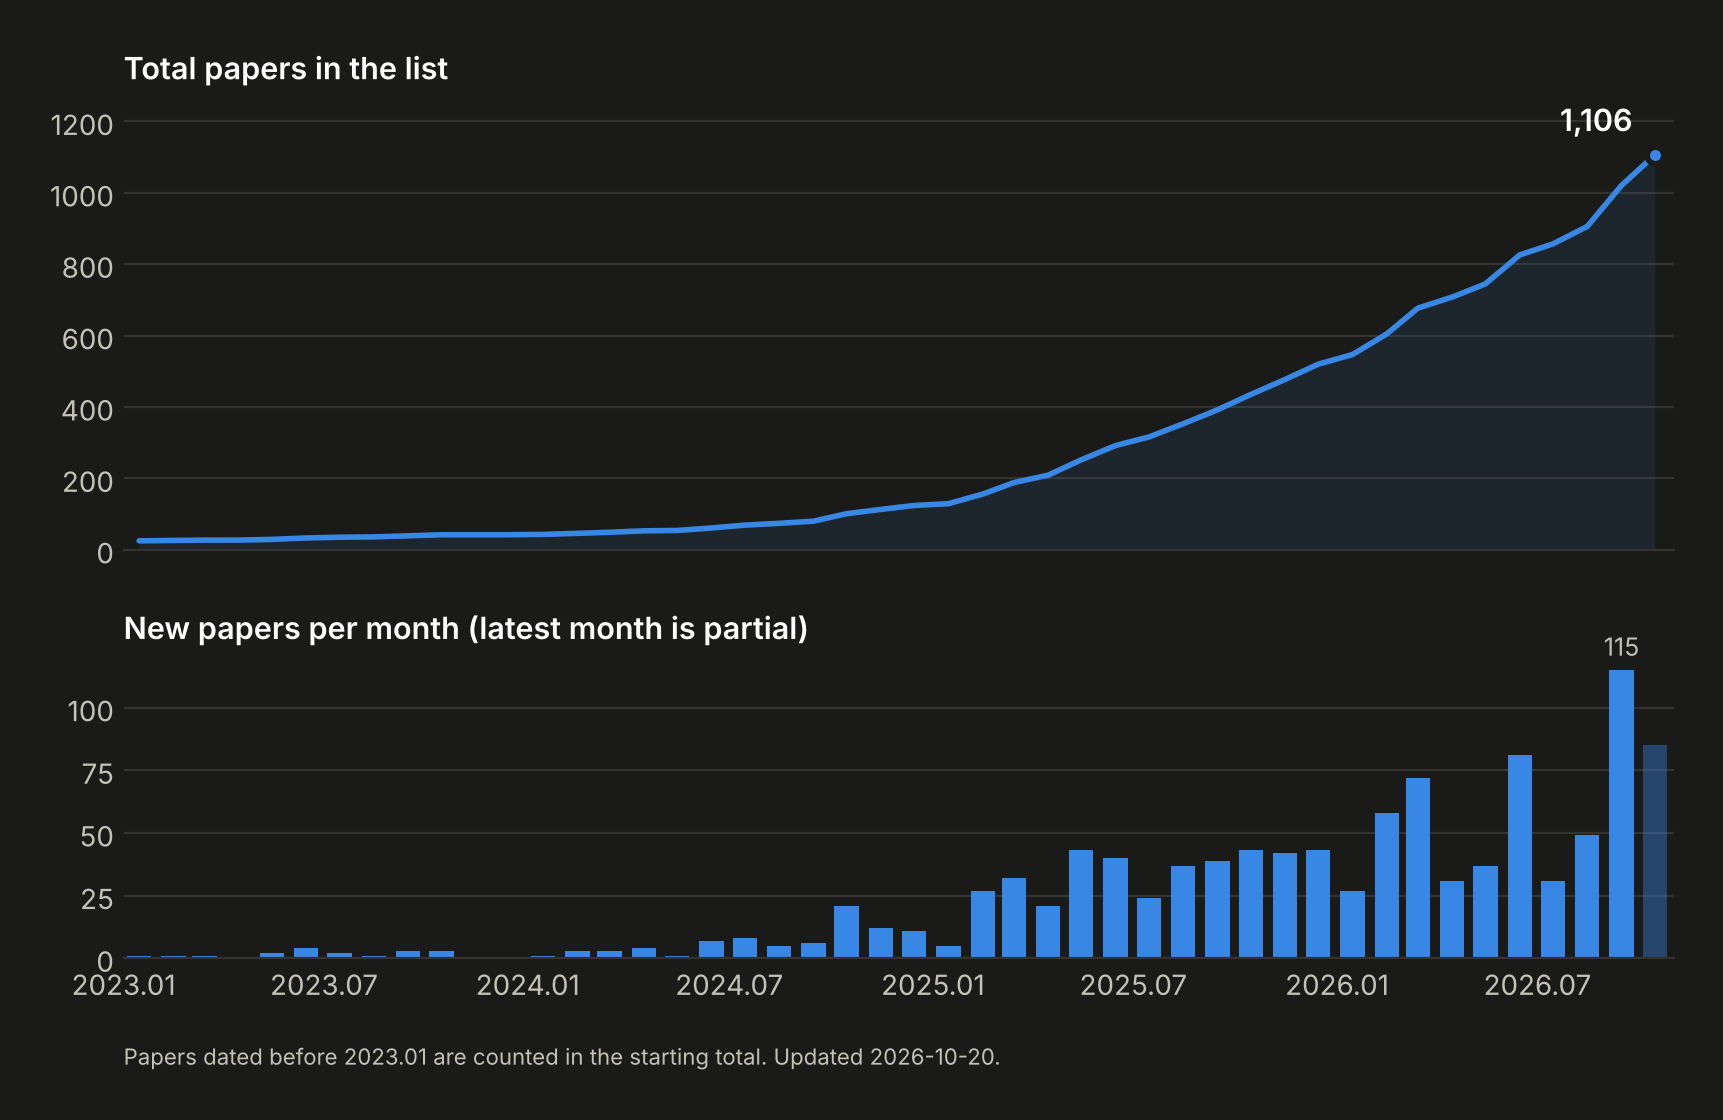
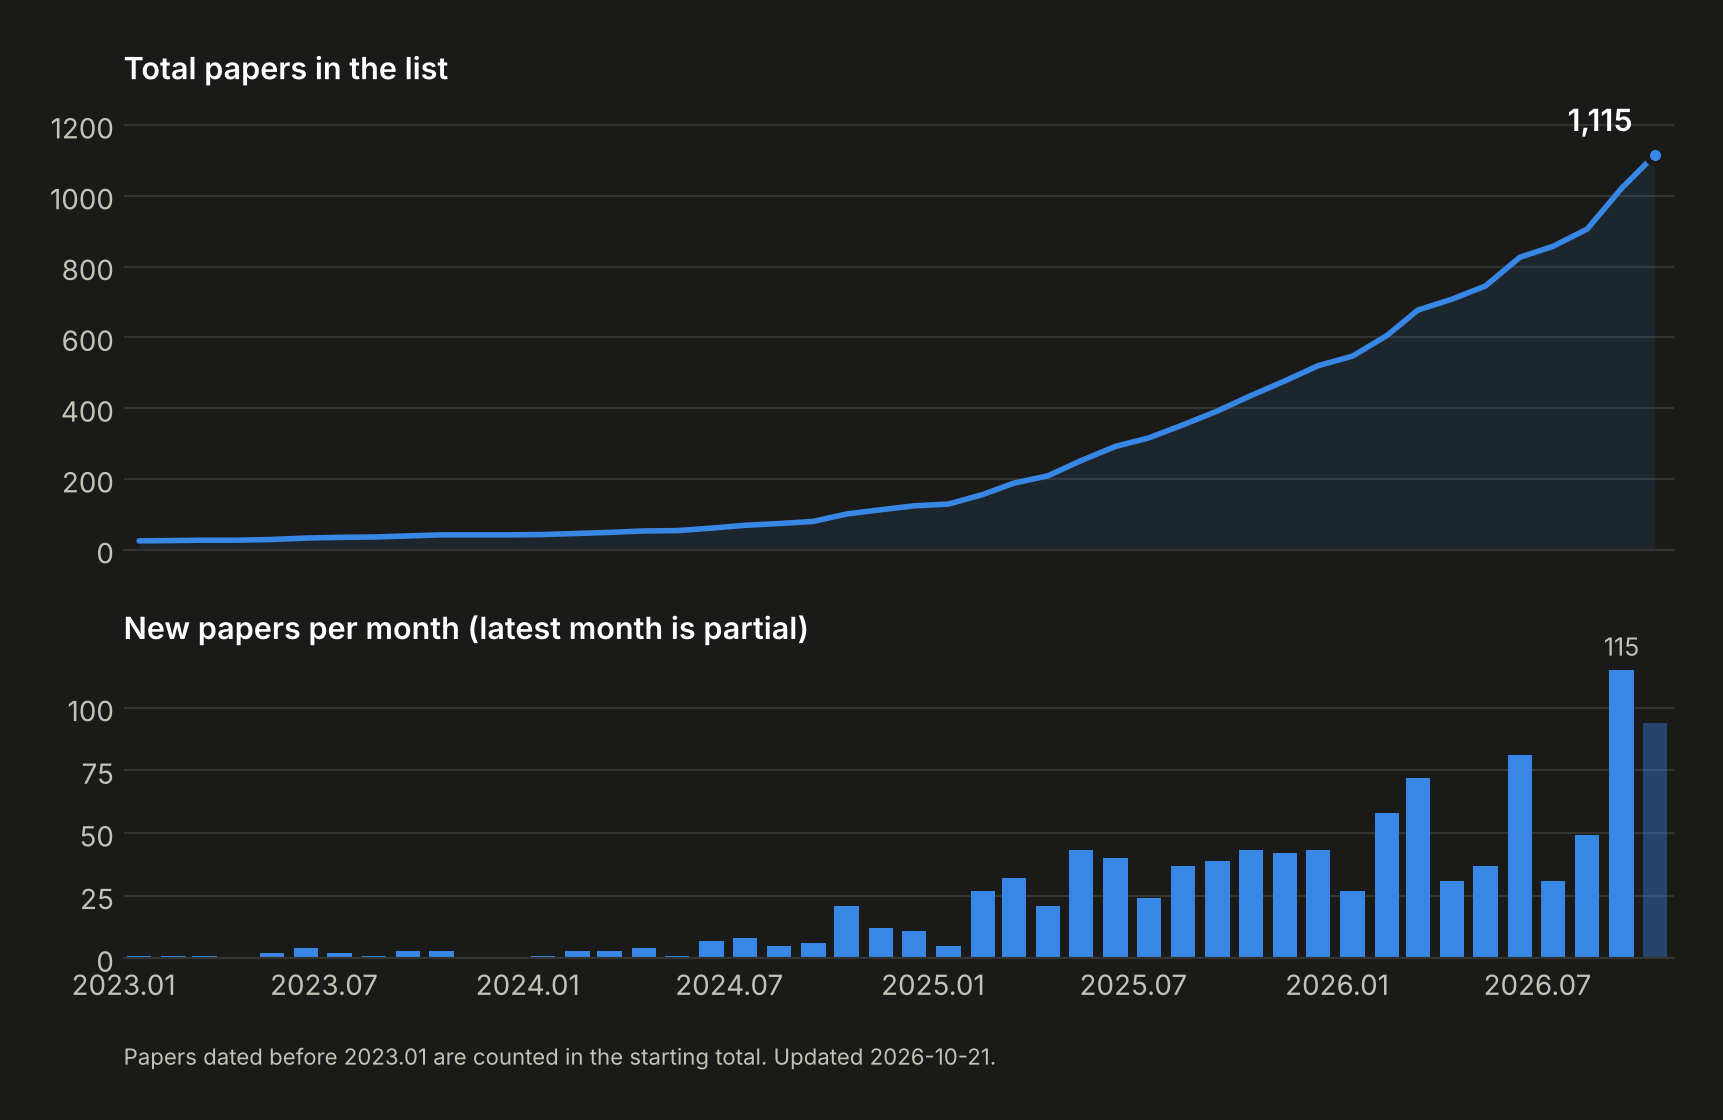
Add 9 papers from arXiv (2026-10-21)
Claude-Session: https://claude.ai/code/session_01MvffLZRp8hyw7Y3uG6SnJp

diff --git a/README.md b/README.md
@@ -28,6 +28,11 @@ Feel free to pull a request for new papers/codes about humanoid robot learning.
 ---
 
 ## Loco-Manipulation and Whole-Body-Control
+- [CoRL 2026](https://arxiv.org/abs/2610.28523), VLM-Guided Contact Retargeting and Generative Partner Modeling for Humanoid-Human Interaction, [website](https://yutoshibata07.github.io/REACT/)
+- [CoRL 2026](https://arxiv.org/abs/2610.28480), SuperMimic: Scaling Humanoid Whole-Body Control with One Differentiable World Model, [website](https://supermimic.github.io)
+- [arXiv 2026.10](https://arxiv.org/abs/2610.28470), Fast Motion Retargeting Pipeline for Scalable Humanoid Robot Learning
+- [arXiv 2026.10](https://arxiv.org/abs/2610.26584), HAF-VLA: Hierarchical Action Flow Framework for Humanoid Vision-Language-Action Control
+- [arXiv 2026.10](https://arxiv.org/abs/2610.26043), OmniInteract: Towards Unified Whole-Body Interaction Control for Dual Humanoids, [website](https://calvinyhli.github.io/omniinteract.github.io/)
 - [arXiv 2026.10](https://arxiv.org/abs/2610.25711), SWAP: Test-Time Steerable Humanoid Whole-Body Collision Avoidance, [website](https://iscoyizj.github.io/SWAP-steerable-humanoid-oa-website/)
 - [arXiv 2026.10](https://arxiv.org/abs/2610.25628), Humanoid SRL: Augmenting Humanoids with Supernumerary Limbs for Coordinated Loco-Manipulation
 - [arXiv 2026.10](https://arxiv.org/abs/2610.24847), DiPLO: Self-distilled Diffusion Planning for Loco-manipulation
@@ -484,6 +489,9 @@ Feel free to pull a request for new papers/codes about humanoid robot learning.
 - [2024.08](https://la.disneyresearch.com/publication/vmp-versatile-motion-priors-for-robustly-tracking-motion-on-physical-characters/), VMP: Versatile Motion Priors for Robustly Tracking Motion on Physical Characters, [website](https://la.disneyresearch.com/publication/vmp-versatile-motion-priors-for-robustly-tracking-motion-on-physical-characters/)
 - [2024.07](https://la.disneyresearch.com/publication/robot-motion-diffusion-model-motion-generation-for-robotic-characters/), Robot Motion Diffusion Model: Motion Generation for Robotic Characters,
 ## Manipulation
+- [arXiv 2026.10](https://arxiv.org/abs/2610.27242), EmbodyHOI: Embodiment-Aware Generation of Hand-Object Interactions for Humanoid Dexterous Manipulation
+- [arXiv 2026.10](https://arxiv.org/abs/2610.26170), Data-Efficient Learning from Demonstration for Humanoid Robots via Feature-Level Perception and Prompt-Based Object Detection
+- [arXiv 2026.10](https://arxiv.org/abs/2610.26169), Compositional Humanoid Manipulation through Isomorphic Teleoperation and Independent Skill Routing
 - [arXiv 2026.10](https://arxiv.org/abs/2610.22342), Spark-0: Scaling Spatially Aligned Tactile Pretraining for Robot Dexterous Manipulation, [website](https://xsparkai.com/Spark-0)
 - [arXiv 2026.10](https://arxiv.org/abs/2610.09369), Immiscible Diffusion Policy: Preserving Multimodal Robot Actions through Label-Free Noise Assignment
 - [arXiv 2026.10](https://arxiv.org/abs/2610.08119), AutodidactWAM: Cross-Modal Self-Distillation from Generated Video to Robot Actions
@@ -865,6 +873,7 @@ Feel free to pull a request for new papers/codes about humanoid robot learning.
 - [2024.10](https://openreview.net/forum?id=wH7Wv0nAm8), Bi-Level Motion Imitation for Humanoid Robots, [website](https://sites.google.com/view/bmi-corl2024)
 
 ## Navigation
+- 🌟[arXiv 2026.10](https://arxiv.org/abs/2610.27688), Adaptive Traversal Tubes for Posture-Aware Navigation of Bipedal Humanoids
 - [arXiv 2026.10](https://arxiv.org/abs/2610.10748), TAPNAV: Humanoid Navigation through Tactile Active Perception
 - [arXiv 2026.10](https://arxiv.org/abs/2610.07396), What the Elevation Map Cannot See: Semantic-Aware Locomotion and Execution-Aware Navigation for Humanoid Robot
 - [arXiv 2026.09](https://arxiv.org/abs/2609.38873), DODGER: Safety-Guided Reinforcement Learning for Robot Navigation Among Dynamic Obstacles, [website](https://psh0823.github.io/dodger-homepage)
